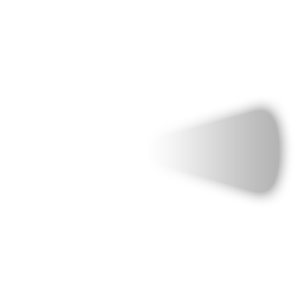
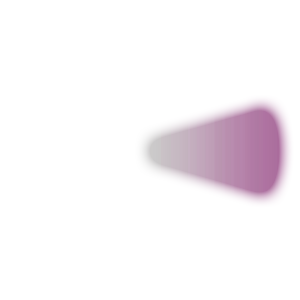
Flashlight works now

Changed region(s): [[0.48, 0.33, 0.96, 0.66]]

diff --git a/js/plugins.js b/js/plugins.js
@@ -12,7 +12,7 @@ var $plugins =
 {"name":"KhasGraphics","status":true,"description":"[1.1] Required by Khas graphics plugins.","parameters":{}},
 {"name":"KhasUltraLighting","status":true,"description":"[4.2] Adds lighting and real-time shadows to your game.","parameters":{"Custom Blending":"ON","Transfer Reset":"OFF","Auto Battle Lighting":"ON"}},
 {"name":"QM+CollisionMap","status":true,"description":"<QMCollisionMap>\r\nQMovement Addon: Adds image collision map feature","parameters":{"Scan Size":"4","Folder":"img/parallaxes/"}},
-{"name":"YEP_ButtonCommonEvents","status":true,"description":"v1.02 On the field map, call common events when certain\r\nbuttons are pressed on the keyboard.","parameters":{"---Top Row---":"","Key ~":"0","Key 1":"0","Key 2":"0","Key 3":"0","Key 4":"0","Key 5":"0","Key 6":"0","Key 7":"0","Key 8":"0","Key 9":"0","Key 0":"0","Key -":"0","Key =":"0","---2nd Row---":"","Key Q (PageUp)":"0","Key W (PageDown)":"0","Key E":"0","Key R":"0","Key T":"0","Key Y":"0","Key U":"0","Key I":"0","Key O":"0","Key P":"0","Key [":"0","Key ]":"0","Key \\":"0","---3rd Row---":"","Key A":"0","Key S":"0","Key D":"0","Key F":"0","Key G":"0","Key H":"0","Key J":"0","Key K":"0","Key L":"0","Key ;":"0","Key \"":"0","Key Enter (OK)":"0","---4th Row---":"","Key Shift (Dash)":"0","Key Z (OK)":"0","Key X (Cancel)":"0","Key C":"0","Key V":"0","Key B":"0","Key N":"0","Key M":"0","Key ,":"0","Key .":"0","Key /":"0","---Misc---":"","Key Space (OK)":"0","Key Left (Left)":"4","Key Up (Up)":"2","Key Right (Right)":"5","Key Down (Down)":"3","Key Insert (Cancel)":"0","Key Delete":"0","Key Home":"0","Key End":"0","Key Page Up (PageUp)":"0","Key Page Down (PageDown)":"0","---NumPad---":"","Key NumPad 0 (Cancel)":"0","Key NumPad 1":"0","Key NumPad 2 (Down)":"0","Key NumPad 3":"0","Key NumPad 4 (Left)":"0","Key NumPad 5":"0","Key NumPad 6 (Right)":"0","Key NumPad 7":"0","Key NumPad 8 (Up)":"0","Key NumPad 9":"0","Key NumPad .":"0","Key NumPad +":"0","Key NumPad -":"0","Key NumPad *":"0","Key NumPad /":"0"}},
+{"name":"YEP_ButtonCommonEvents","status":true,"description":"v1.02 On the field map, call common events when certain\r\nbuttons are pressed on the keyboard.","parameters":{"---Top Row---":"","Key ~":"0","Key 1":"0","Key 2":"0","Key 3":"0","Key 4":"0","Key 5":"0","Key 6":"0","Key 7":"0","Key 8":"0","Key 9":"0","Key 0":"0","Key -":"0","Key =":"0","---2nd Row---":"","Key Q (PageUp)":"0","Key W (PageDown)":"0","Key E":"0","Key R":"0","Key T":"0","Key Y":"0","Key U":"0","Key I":"0","Key O":"0","Key P":"0","Key [":"0","Key ]":"0","Key \\":"0","---3rd Row---":"","Key A":"0","Key S":"0","Key D":"0","Key F":"0","Key G":"0","Key H":"0","Key J":"0","Key K":"0","Key L":"0","Key ;":"0","Key \"":"0","Key Enter (OK)":"0","---4th Row---":"","Key Shift (Dash)":"0","Key Z (OK)":"0","Key X (Cancel)":"0","Key C":"0","Key V":"0","Key B":"0","Key N":"0","Key M":"0","Key ,":"0","Key .":"0","Key /":"0","---Misc---":"","Key Space (OK)":"6","Key Left (Left)":"4","Key Up (Up)":"2","Key Right (Right)":"5","Key Down (Down)":"3","Key Insert (Cancel)":"0","Key Delete":"0","Key Home":"0","Key End":"0","Key Page Up (PageUp)":"0","Key Page Down (PageDown)":"0","---NumPad---":"","Key NumPad 0 (Cancel)":"0","Key NumPad 1":"0","Key NumPad 2 (Down)":"0","Key NumPad 3":"0","Key NumPad 4 (Left)":"0","Key NumPad 5":"0","Key NumPad 6 (Right)":"0","Key NumPad 7":"0","Key NumPad 8 (Up)":"0","Key NumPad 9":"0","Key NumPad .":"0","Key NumPad +":"0","Key NumPad -":"0","Key NumPad *":"0","Key NumPad /":"0"}},
 {"name":"YEP_KeyboardConfig","status":true,"description":"v1.04 Allows players to adjust their button configuration\r\nfor keyboards.","parameters":{"---General---":"","Command Name":"Keyboard Config","Button Events":"8","Button Events List":"[]","---Help Text---":"","Key Help":"Change the configuration of this key?","Default Layout":"Default Keyboard Layout","Default Help":"Reverts your keyboard setting to the default setup.","WASD Layout":"WASD Movement Layout","WASD Help":"Changes your keyboard to WASD movement.","Finish Config":"Finish Configuration","Finish Help":"Are you done configuring your keyboard?","Assigned Color":"21","Action Color":"4","Clear Text":"Clear","---Key Names---":"","OK Key":"OK","OK Text":"OK / Talk","Escape Key":"X","Escape Text":"Cancel / Menu","Cancel Key":"Cancel","Cancel Text":"Cancel","Menu Key":"Menu","Menu Text":"Menu","Shift Key":"Dash","Shift Text":"Dash","PageUp Key":"PgUp","PageUp Text":"Page Up","PageDown Key":"PgDn","PageDown Text":"Page Down","Left Key":"◄","Left Text":"Move ◄ Left","Up Key":"▲","Up Text":"Move ▲ Up","Right Key":"►","Right Text":"Move ► Right","Down Key":"▼","Down Text":"Move ▼ Down"}},
 {"name":"YanflyDashToggle","status":true,"description":"v1.03 RPG Maker MV lacks the ability to toggle dashing\r\non and off. This plugin will let you do so~","parameters":{}}
 ];
